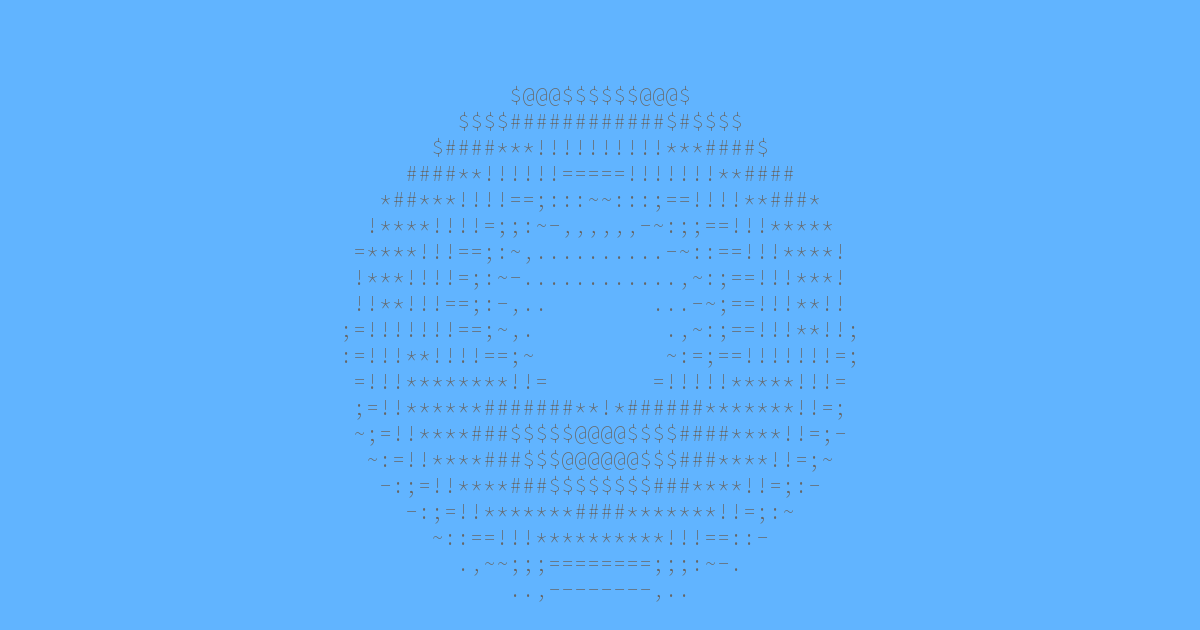
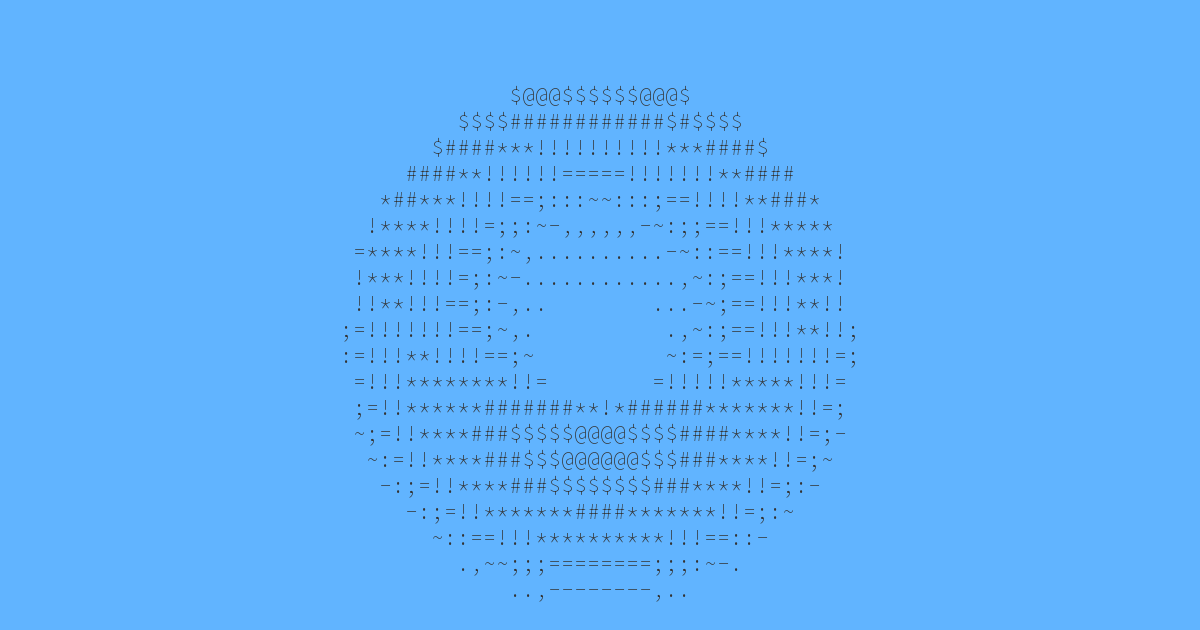
OG: darken ASCII donut for better contrast

diff --git a/tools/make_og.py b/tools/make_og.py
@@ -17,7 +17,7 @@ from PIL import Image, ImageDraw, ImageFont
 COLS, ROWS = 80, 22
 CHARS = ".,-~:;=!*#$@"
 BG = "#61b4ff"
-FG = "#666666"
+FG = "#333333"
 W, H = 1200, 630
 FONT_SIZE = 22
 LINE_H = 26
